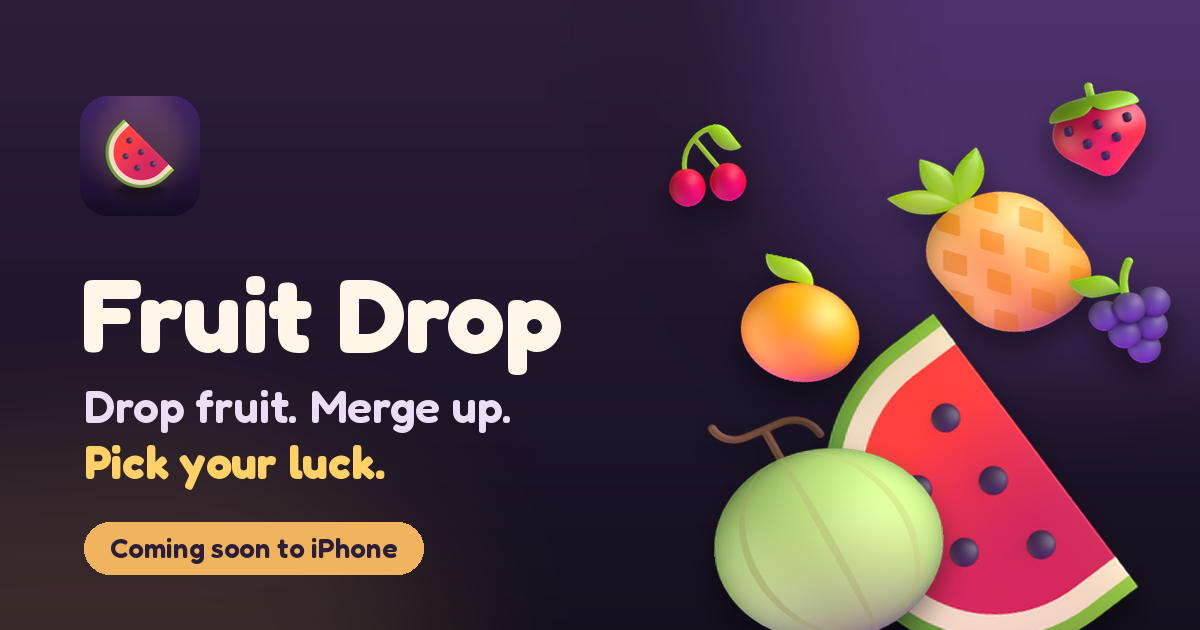
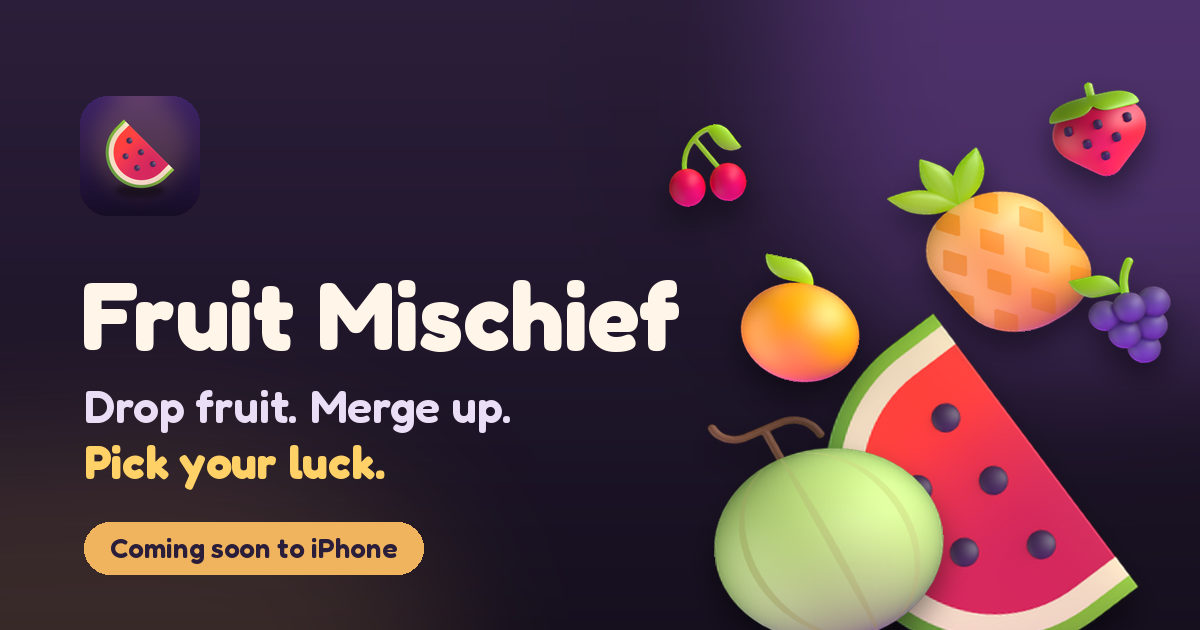
feat: rename game to Fruit Mischief and move site to its own domain
- Replace "Fruit Drop" with "Fruit Mischief" across pages, metadata, README and issue templates
- Regenerate og-image.png (title at 96px to clear the fruit) and logo.png from the game's new wordmark
- Point GitHub links to nguyenvanlamm/dropfruitesweb and the contact email to lamnv260398@gmail.com
- Serve the site from https://fruit-mischief.lamnv.com at base path /
- Fix the npm run serve redirect loop when the base path is /

Generated with [Devin](https://devin.ai)

Changed region(s): [[0.0617, 0.4222, 0.5858, 0.6032], [0.0617, 0.5429, 0.0925, 0.573]]

diff --git a/src/pages/support.html b/src/pages/support.html
@@ -1,7 +1,7 @@
 <!--meta
 {
-  "title": "Support & Feedback — Fruit Drop",
-  "description": "Report a bug, suggest a blessing, or ask a question about Fruit Drop, on GitHub or by email.",
+  "title": "Support & Feedback — Fruit Mischief",
+  "description": "Report a bug, suggest a blessing, or ask a question about Fruit Mischief, on GitHub or by email.",
   "path": "support.html",
   "nav": "support"
 }
@@ -18,7 +18,7 @@
             {{icon:info}}
             <p>
               Each GitHub link opens a short form on
-              <a href="{{repo}}" rel="noopener">luongnv89/dropfruites</a>. You need a free GitHub account to file an
+              <a href="{{repo}}" rel="noopener">nguyenvanlamm/dropfruitesweb</a>. You need a free GitHub account to file an
               issue, and anything you post there is public. This site has no contact form and collects nothing.
             </p>
           </div>
@@ -42,10 +42,10 @@
               <span class="ico">{{icon:chat}}</span>
               <span>
                 <h2>General feedback <span class="arrow">{{icon:arrow}}</span></h2>
-                <p>Questions, praise, your best score, or anything else about Fruit Drop.</p>
+                <p>Questions, praise, your best score, or anything else about Fruit Mischief.</p>
               </span>
             </a>
-            <a class="support-card reveal" href="mailto:{{email}}?subject=Fruit%20Drop%20feedback" style="--tone:#4ecdc4;--d:3">
+            <a class="support-card reveal" href="mailto:{{email}}?subject=Fruit%20Mischief%20feedback" style="--tone:#4ecdc4;--d:3">
               <span class="ico">{{icon:mail}}</span>
               <span>
                 <h2>Email us <span class="arrow">{{icon:arrow}}</span></h2>
@@ -59,7 +59,7 @@
             <ul>
               <li><a href="{{repo}}/issues" rel="noopener">Search open issues</a> first. If yours is already there, add a comment or a 👍 instead of a duplicate.</li>
               <li>Check the <a href="index.html#faq">FAQ</a> for launch dates, pricing, and data questions.</li>
-              <li>For a bug, the most useful details are your iPhone model, iOS version, the app version (Settings → Apps → Fruit Drop, or the App Store page), and the steps that led to it. A screenshot or screen recording helps a lot.</li>
+              <li>For a bug, the most useful details are your iPhone model, iOS version, the app version (Settings → Apps → Fruit Mischief, or the App Store page), and the steps that led to it. A screenshot or screen recording helps a lot.</li>
             </ul>
             <h2>Purchases and refunds</h2>
             <p>

diff --git a/src/pages/index.html b/src/pages/index.html
@@ -1,7 +1,7 @@
 <!--meta
 {
-  "title": "Fruit Drop — Drop fruit. Merge up. Pick your luck.",
-  "description": "Fruit Drop is a physics merge game for iPhone with a roguelike twist: merge fruits up an 11-tier chain and pick blessings that change every run.",
+  "title": "Fruit Mischief — Drop fruit. Merge up. Pick your luck.",
+  "description": "Fruit Mischief is a physics merge game for iPhone with a roguelike twist: merge fruits up an 11-tier chain and pick blessings that change every run.",
   "path": "",
   "scripts": ["assets/js/bin.js"],
   "jsonld": true
@@ -18,7 +18,7 @@
             </span>
             <h1>Drop fruit. Merge up. <span class="accent">Pick&nbsp;your&nbsp;luck.</span></h1>
             <p class="lede">
-              Fruit Drop is a physics merge game with a roguelike twist. Match two fruits to grow them up an 11-tier
+              Fruit Mischief is a physics merge game with a roguelike twist. Match two fruits to grow them up an 11-tier
               chain, and every few merges choose a blessing that changes how the run plays.
             </p>
             <div class="hero-cta">
@@ -61,7 +61,7 @@
                 data-bin
                 tabindex="0"
                 role="application"
-                aria-label="Playable Fruit Drop demo. Use left and right arrows to aim, space to drop."
+                aria-label="Playable Fruit Mischief demo. Use left and right arrows to aim, space to drop."
               >
                 <canvas width="400" height="496"></canvas>
                 <div class="bin-toast" data-bin-toast aria-hidden="true"></div>
@@ -215,7 +215,7 @@
             <img class="final-fruit" src="assets/fruits/pineapple.png" alt="" width="256" height="256" loading="lazy" style="left:-18px;bottom:-22px;--r:-14deg" />
             <img class="final-fruit" src="assets/fruits/cherry.png" alt="" width="256" height="256" loading="lazy" style="right:4%;top:10%;width:72px;--r:10deg;animation-delay:-2s" />
             <h2>Be in the bin on day one</h2>
-            <p>Fruit Drop is coming to the App Store. Watch the repo and you'll get the link as soon as it's live.</p>
+            <p>Fruit Mischief is coming to the App Store. Watch the repo and you'll get the link as soon as it's live.</p>
             <div class="hero-cta">
               <a class="btn" href="{{repo}}" rel="noopener">
                 {{icon:bell}}

diff --git a/src/layout.html b/src/layout.html
@@ -12,14 +12,14 @@
     <meta name="robots" content="{{robots}}" />
 
     <meta property="og:type" content="website" />
-    <meta property="og:site_name" content="Fruit Drop" />
+    <meta property="og:site_name" content="Fruit Mischief" />
     <meta property="og:title" content="{{title}}" />
     <meta property="og:description" content="{{description}}" />
     <meta property="og:url" content="{{canonical}}" />
     <meta property="og:image" content="{{siteUrl}}/og-image.png" />
     <meta property="og:image:width" content="1200" />
     <meta property="og:image:height" content="630" />
-    <meta property="og:image:alt" content="Fruit Drop — drop fruit, merge up, pick your luck." />
+    <meta property="og:image:alt" content="Fruit Mischief — drop fruit, merge up, pick your luck." />
     <meta name="twitter:card" content="summary_large_image" />
     <meta name="twitter:title" content="{{title}}" />
     <meta name="twitter:description" content="{{description}}" />
@@ -38,7 +38,7 @@
       <nav class="nav container" aria-label="Main">
         <a class="brand" href="{{root}}index.html">
           <img src="{{root}}assets/img/app-icon-512.png" alt="" width="36" height="36" />
-          Fruit Drop
+          Fruit Mischief
         </a>
         <button class="nav-toggle" type="button" aria-expanded="false" aria-controls="nav-links">
           <span></span><span class="visually-hidden">Menu</span>
@@ -62,7 +62,7 @@
           <div>
             <a class="brand" href="{{root}}index.html">
               <img src="{{root}}assets/img/app-icon-512.png" alt="" width="36" height="36" loading="lazy" />
-              Fruit Drop
+              Fruit Mischief
             </a>
             <p>A physics merge game with a roguelike twist. Coming soon to iPhone.</p>
           </div>
@@ -92,7 +92,7 @@
           </div>
         </div>
         <div class="footer-base">
-          <span>© <span data-year>2026</span> Fruit Drop. All rights reserved.</span>
+          <span>© <span data-year>2026</span> Fruit Mischief. All rights reserved.</span>
           <span>Fruit art: Microsoft Fluent Emoji (MIT). Icons: game-icons.net (CC BY 3.0).</span>
         </div>
       </div>

diff --git a/src/pages/privacy.html b/src/pages/privacy.html
@@ -1,7 +1,7 @@
 <!--meta
 {
-  "title": "Privacy Policy — Fruit Drop",
-  "description": "Fruit Drop collects no personal data. No account, no analytics, no ad tracking. Scores and item stock stay on your device.",
+  "title": "Privacy Policy — Fruit Mischief",
+  "description": "Fruit Mischief collects no personal data. No account, no analytics, no ad tracking. Scores and item stock stay on your device.",
   "path": "privacy.html",
   "nav": "privacy"
 }
@@ -11,11 +11,11 @@
           <div class="page-head reveal">
             <span class="kicker">Privacy</span>
             <h1>Privacy Policy</h1>
-            <p>Short version: Fruit Drop collects nothing about you. There is no account, no analytics, and no ad tracking.</p>
+            <p>Short version: Fruit Mischief collects nothing about you. There is no account, no analytics, and no ad tracking.</p>
           </div>
 
           <div class="prose">
-            <h2>The Fruit Drop app</h2>
+            <h2>The Fruit Mischief app</h2>
             <p>We don't collect, store, or share personal data. The app has no sign-in and no analytics or advertising SDKs, and we run no servers that it reports to.</p>
             <p>Two things are saved <strong>on your device only</strong>, using iOS's standard app storage (UserDefaults):</p>
             <ul>
@@ -42,7 +42,7 @@
             <p>If you open a GitHub issue, what you write is public and handled under GitHub's terms. If you email us, we use your address only to reply, and we don't add it to any list.</p>
 
             <h2>Children</h2>
-            <p>Fruit Drop collects no data from anyone, including children. Purchases are subject to the parental controls and Ask to Buy settings on the device.</p>
+            <p>Fruit Mischief collects no data from anyone, including children. Purchases are subject to the parental controls and Ask to Buy settings on the device.</p>
 
             <h2>Changes and contact</h2>
             <p>If this policy changes, the new version will be posted here with a new date. Questions: <a href="mailto:{{email}}">{{email}}</a> or the <a href="support.html">support page</a>.</p>

diff --git a/src/pages/changelog.html b/src/pages/changelog.html
@@ -1,7 +1,7 @@
 <!--meta
 {
-  "title": "Changelog — Fruit Drop",
-  "description": "What's new in Fruit Drop: release notes for every version of the physics merge game, from fruit tuning to new blessings.",
+  "title": "Changelog — Fruit Mischief",
+  "description": "What's new in Fruit Mischief: release notes for every version of the physics merge game, from fruit tuning to new blessings.",
   "path": "changelog.html",
   "nav": "changelog"
 }
@@ -21,7 +21,7 @@
               <span class="pill">iPhone</span>
             </div>
             <h2>First release</h2>
-            <p>The first version of Fruit Drop for the App Store: physics merging, an 11-fruit chain, and a blessing draft on top.</p>
+            <p>The first version of Fruit Mischief for the App Store: physics merging, an 11-fruit chain, and a blessing draft on top.</p>
 
             <h3><img src="assets/fruits/watermelon.png" alt="" width="28" height="28" /> The game</h3>
             <ul>

diff --git a/src/pages/credits.html b/src/pages/credits.html
@@ -1,7 +1,7 @@
 <!--meta
 {
-  "title": "Credits & Licenses — Fruit Drop",
-  "description": "The artists and open licenses behind Fruit Drop's fruit art, icons, sounds, and font.",
+  "title": "Credits & Licenses — Fruit Mischief",
+  "description": "The artists and open licenses behind Fruit Mischief's fruit art, icons, sounds, and font.",
   "path": "credits.html",
   "nav": "credits"
 }
@@ -11,7 +11,7 @@
           <div class="page-head reveal">
             <span class="kicker">Credits</span>
             <h1>Made with great open assets</h1>
-            <p>Fruit Drop and this site use art, icons, sounds, and a font from these creators, under the licenses below.</p>
+            <p>Fruit Mischief and this site use art, icons, sounds, and a font from these creators, under the licenses below.</p>
           </div>
 
           <div class="prose" style="max-width:none">

diff --git a/src/pages/404.html b/src/pages/404.html
@@ -1,7 +1,7 @@
 <!--meta
 {
-  "title": "Page not found — Fruit Drop",
-  "description": "This page rolled out of the bin. Head back to the Fruit Drop homepage for the physics merge game.",
+  "title": "Page not found — Fruit Mischief",
+  "description": "This page rolled out of the bin. Head back to the Fruit Mischief homepage for the physics merge game.",
   "path": "404.html",
   "nav": ""
 }

diff --git a/src/static/assets/js/bin.js b/src/static/assets/js/bin.js
@@ -1,4 +1,4 @@
-// The playable mini bin in the hero: a pocket version of Fruit Drop.
+// The playable mini bin in the hero: a pocket version of Fruit Mischief.
 // Verlet circles in world units (bin is 100 wide), same fruit ladder,
 // radii and scores as the game. No blessings — that's what the app is for.
 

diff --git a/src/static/assets/css/site.css b/src/static/assets/css/site.css
@@ -1,4 +1,4 @@
-/* Fruit Drop — site styles.
+/* Fruit Mischief — site styles.
    Palette and type mirror the game's theme (lib/theme/app_colors.dart):
    deep purple world, amber accent, Fredoka everywhere. */
 

diff --git a/scripts/og-image.py b/scripts/og-image.py
@@ -71,7 +71,7 @@ def font(size, weight):
 
 
 d = ImageDraw.Draw(img)
-d.text((80, 250), "Fruit Drop", font=font(104, 700), fill="#fff6e9")
+d.text((80, 256), "Fruit Mischief", font=font(96, 700), fill="#fff6e9")
 d.text((84, 378), "Drop fruit. Merge up.", font=font(46, 600), fill="#e9def5")
 d.text((84, 434), "Pick your luck.", font=font(46, 700), fill="#ffd166")
 pill = "Coming soon to iPhone"

diff --git a/README.md b/README.md
@@ -1,24 +1,24 @@
-# Fruit Drop: feedback, support, and the website
+# Fruit Mischief: feedback, support, and the website
 
-<p align="center"><img src="src/static/og-image.png" alt="Fruit Drop: drop fruit, merge up, pick your luck" width="720" /></p>
+<p align="center"><img src="src/static/og-image.png" alt="Fruit Mischief: drop fruit, merge up, pick your luck" width="720" /></p>
 
-This is the public home of **Fruit Drop**, a physics merge game for iPhone with a roguelike twist. Open an issue to report a bug, suggest a blessing, or ask a question. Every issue gets read.
+This is the public home of **Fruit Mischief**, a physics merge game for iPhone with a roguelike twist. Open an issue to report a bug, suggest a blessing, or ask a question. Every issue gets read.
 
-[**Report a bug →**](https://github.com/luongnv89/dropfruites/issues/new?template=bug_report.yml) · [**Suggest an idea →**](https://github.com/luongnv89/dropfruites/issues/new?template=feature_request.yml) · [**General feedback →**](https://github.com/luongnv89/dropfruites/issues/new?template=feedback.yml) · [**Email**](mailto:luongnv89@gmail.com)
+[**Report a bug →**](https://github.com/nguyenvanlamm/dropfruitesweb/issues/new?template=bug_report.yml) · [**Suggest an idea →**](https://github.com/nguyenvanlamm/dropfruitesweb/issues/new?template=feature_request.yml) · [**General feedback →**](https://github.com/nguyenvanlamm/dropfruitesweb/issues/new?template=feedback.yml) · [**Email**](mailto:lamnv260398@gmail.com)
 
 > **Coming soon to the App Store.** Click **Watch → Custom → Releases** at the top of this page to get the App Store link the day it goes live.
-> Website: [luongnv.com/dropfruites](https://luongnv.com/dropfruites/)
+> Website: [fruit-mischief.lamnv.com](https://fruit-mischief.lamnv.com/)
 
 ## Reporting a bug
 
 | Include | Example |
 |---|---|
 | iPhone model and iOS version | iPhone 15, iOS 26.0 |
-| App version | Settings → Apps → Fruit Drop |
+| App version | Settings → Apps → Fruit Mischief |
 | What happened | Two lemons touched but didn't merge |
 | What you did just before | Held Magnet, used Cleaver on a Pear |
 
-A screenshot or short screen recording helps a lot. [Search open issues](https://github.com/luongnv89/dropfruites/issues) first. If yours is already there, add a 👍 or a comment.
+A screenshot or short screen recording helps a lot. [Search open issues](https://github.com/nguyenvanlamm/dropfruitesweb/issues) first. If yours is already there, add a 👍 or a comment.
 
 ---
 
@@ -30,7 +30,7 @@ A static site with no framework and no runtime dependencies. `scripts/build.mjs`
 ```bash
 npm run build     # src/ → dist/ (pages, sitemap.xml, robots.txt, .nojekyll)
 npm run check     # every local href/src and #anchor in dist/ resolves
-npm run serve     # preview at http://localhost:4173/dropfruites/ (same base path as Pages)
+npm run serve     # preview at http://localhost:4173/ (same base path as the live site)
 npm test          # build + check
 ```
 
@@ -62,6 +62,6 @@ When the App Store listing is live, replace the "Coming soon" badge and the **Ge
 
 ## Credits
 
-Fruit art: Microsoft [Fluent Emoji](https://github.com/microsoft/fluentui-emoji) (MIT). Blessing icons: Lorc and Delapouite, [game-icons.net](https://game-icons.net) (CC BY 3.0). Font: [Fredoka](https://fonts.google.com/specimen/Fredoka) (OFL 1.1). The full table is on the [credits page](https://luongnv.com/dropfruites/credits.html).
+Fruit art: Microsoft [Fluent Emoji](https://github.com/microsoft/fluentui-emoji) (MIT). Blessing icons: Lorc and Delapouite, [game-icons.net](https://game-icons.net) (CC BY 3.0). Font: [Fredoka](https://fonts.google.com/specimen/Fredoka) (OFL 1.1). The full table is on the [credits page](https://fruit-mischief.lamnv.com/credits.html).
 
-© Fruit Drop. All rights reserved. Third-party assets remain under their own licenses.
+© Fruit Mischief. All rights reserved. Third-party assets remain under their own licenses.
